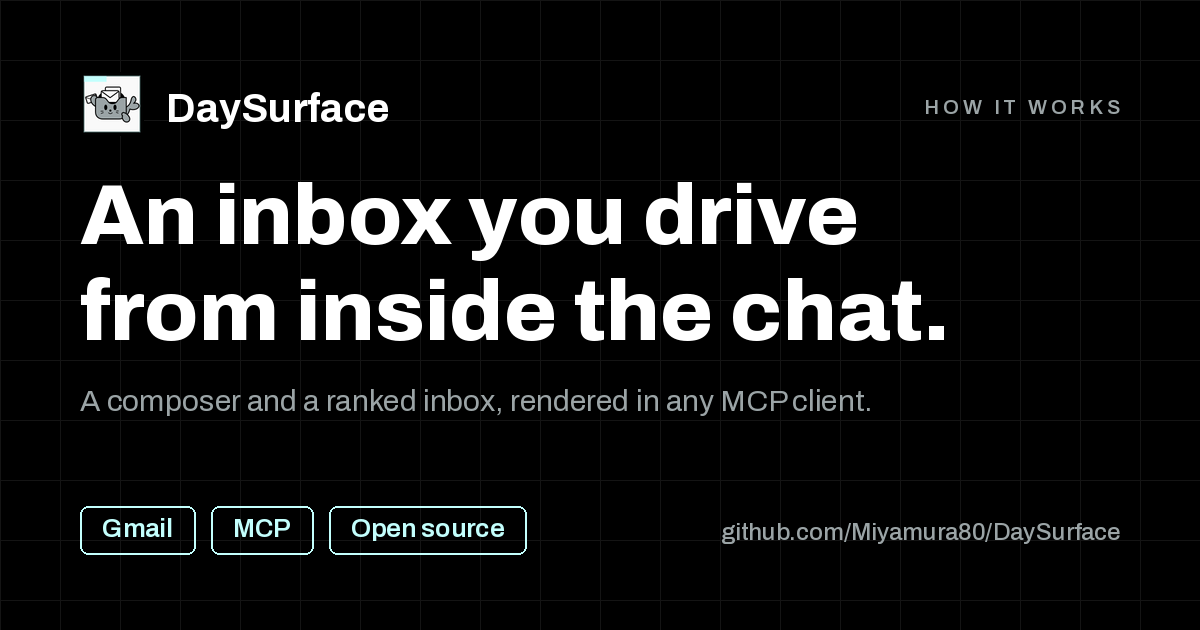
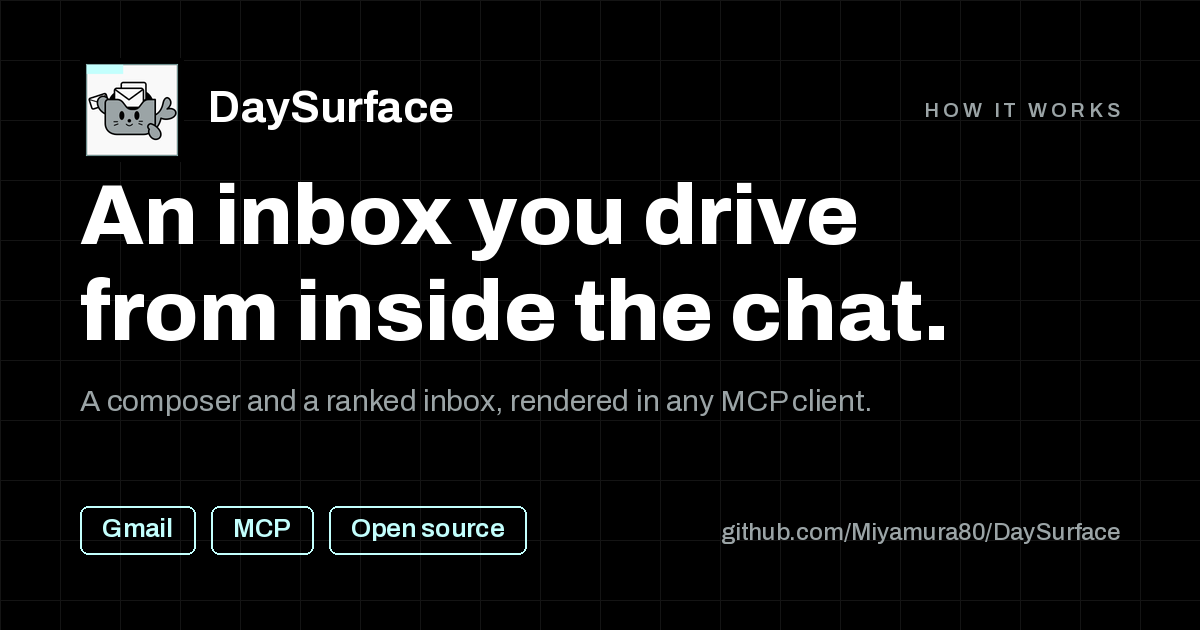
✨ Enlarge brand mark on the OG social cards
Bump the lockup mark from 64px to 104px in gen-og.py so the seal takes up
more space, and vertically centre the wordmark + eyebrow against it.
Regenerate og.png, og-product.png, og-story.png.

Changed region(s): [[0.0617, 0.0905, 0.4008, 0.2714], [0.7708, 0.1508, 0.9558, 0.181]]

diff --git a/landing-page/scripts/gen-og.py b/landing-page/scripts/gen-og.py
@@ -148,23 +148,42 @@ def render(card: Card) -> None:
         d.line([(0, gy), (W, gy)], fill=GRID, width=1)
 
     # Top row: brand lockup (canonical mark + wordmark) left, eyebrow right.
-    mark_size = 64
+    # The mark is sized to dominate the lockup; the wordmark and eyebrow are
+    # vertically centred against it.
+    mark_size = 104
     mark = brand_mark(mark_size)
-    row_y = PAD - 8
-    wm_font = archivo(40, 700)
+    row_y = 58
+    center_y = row_y + mark_size // 2
+    wm_font = archivo(44, 700)
     if mark is not None:
         img.paste(mark, (PAD, row_y), mark)
-        wm_x = PAD + mark_size + 22
+        wm_x = PAD + mark_size + 24
     else:
         # Fallback: the hero's cyan square if the SVG can't be rasterized.
         sq = 16
-        d.rectangle([PAD, row_y + 8, PAD + sq, row_y + 8 + sq], fill=ACCENT)
+        d.rectangle(
+            [PAD, center_y - sq // 2, PAD + sq, center_y + sq // 2], fill=ACCENT
+        )
         wm_x = PAD + sq + 18
-    d.text((wm_x, row_y + 14), WORDMARK, font=wm_font, fill=FG)
+    wm_bbox = d.textbbox((0, 0), WORDMARK, font=wm_font)
+    d.text(
+        (wm_x, center_y - (wm_bbox[3] + wm_bbox[1]) // 2),
+        WORDMARK,
+        font=wm_font,
+        fill=FG,
+    )
 
     eb_font = archivo(20, 600)
     eb_w = sum(d.textlength(c, font=eb_font) + 4 for c in card.eyebrow) - 4
-    draw_tracked(d, (W - PAD - eb_w, row_y + 24), card.eyebrow, eb_font, FG_MUTED, 4)
+    eb_bbox = d.textbbox((0, 0), card.eyebrow, font=eb_font)
+    draw_tracked(
+        d,
+        (W - PAD - eb_w, center_y - (eb_bbox[3] + eb_bbox[1]) // 2),
+        card.eyebrow,
+        eb_font,
+        FG_MUTED,
+        4,
+    )
 
     # Headline (auto-sized to fit the widest line).
     hl_font = fit_headline(d, card.headline)
